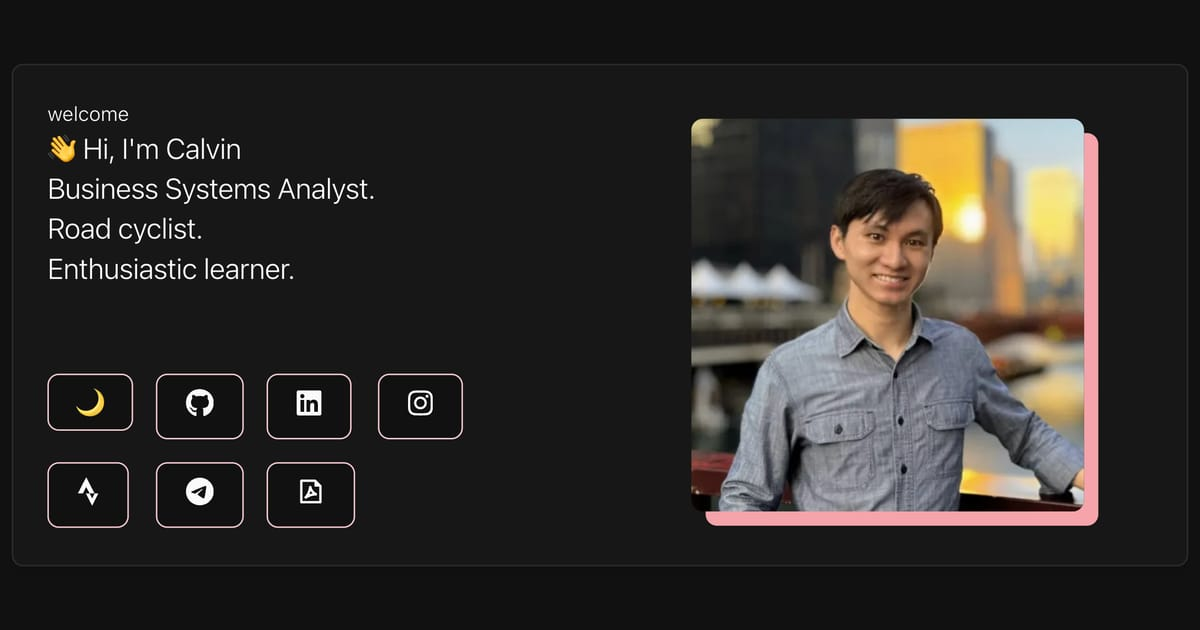
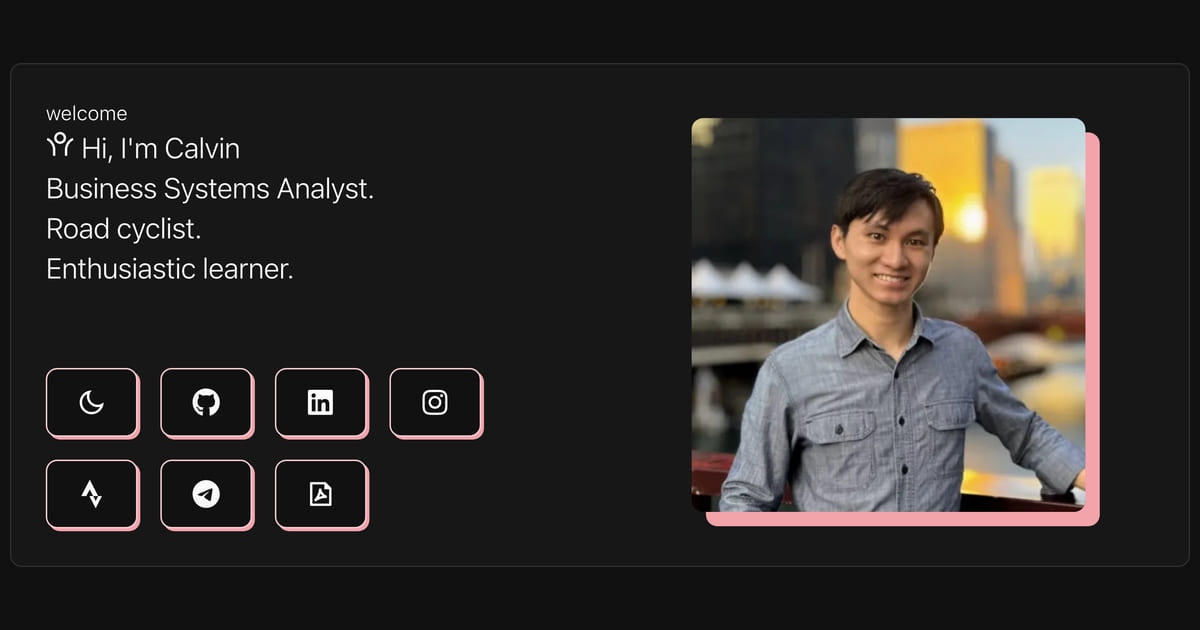
chore(assets): regenerate preview.jpg from the current build
The README hero and OG image still showed the emoji greeting that the
icon migration replaced and the flat borders that predate the offset
plate, on top of the ragged buttons this branch fixes. Recaptured from
this build: same 1200x630 canvas, same composition (hero card at 1180px
wide, placed at 10,63 on the page background), dark theme as before.

Sharper than the file it replaces despite the same dimensions: the old
one was upscaled from a 1x screenshot, this is downscaled from a 4x clip.
55,636 B against 42,946 B, q82 4:4:4 — 4:4:4 because the subject is UI
text and icon edges, and q82 was the lowest setting indistinguishable
from q88.

plans/README.md: the assertion count there was already stale by 24
before this branch (it claims 67; the suite was 91 at branch point and is
98 now). Corrected, with a note that this fix consumed no plan number so
numbering still continues at 016.

diff --git a/plans/README.md b/plans/README.md
@@ -88,6 +88,20 @@ Post-run-3 correction (plan 015, merged `a4b419b`): the suite is now **67
 assertions**, and the two `GOALS[].current_progress` values are bot-owned — a
 daily workflow writes `src/data/strava-progress.json`, so they are no longer
 hand-edited in `constants.ts` (`total_goal` and `progress_last_year` still are).
+Later maintainer-direct fixes (PRs #57–#60 and the control-geometry fix) have
+landed without updating the count above, so treat **every assertion count in
+this file as unverified** and read it from `pnpm test`: it is **98** as of the
+control-geometry fix, across **5** files (`tests/control-geometry.test.ts` is
+new). It was already 91 before that fix, i.e. the "67" above went stale
+independently of it. That fix consumed **no plan number** — it came straight
+from the maintainer and was implemented and verified in one session, so
+numbering still continues at `016`. What it changed: the nine styled controls
+are one declared 64x48 box, the second `control` variant is gone, and
+`public/preview.jpg` was regenerated from the current build (it had still been
+showing the pre-icon-migration emoji greeting). Its page weight effect is a net
+**−40 B gzip** — the stylesheet lost 50 B with the retired variant, the markup
+gained 10 B for the icon-pinning tokens.
+
 Page weight after run 3: `dist/index.html` 15,735 B raw / **3,533 B gzip**;
 the single stylesheet 24,138 B raw / **7,055 B gzip** (up ~1.1 KB gzip from
 run 2 — the 8 migrated icons each embed an SVG mask data-URI; the emoji they
